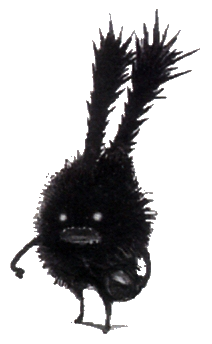
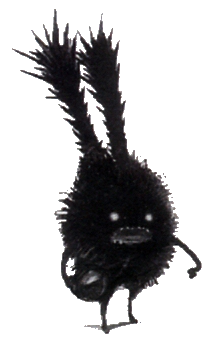
moving spriggan!
code refactor todo :S

Changed region(s): [[0.0283, 0.0291, 0.9623, 0.9884], [0.5094, 0.6105, 0.566, 0.6395], [0.5377, 0.4651, 0.566, 0.4942]]

diff --git a/script.js b/script.js
@@ -1,4 +1,10 @@
 (function() {
+	var SPRIGGAN_CHASE_WIDTH = 160;
+	var SPRIGGAN_CHASE_HEIGHT = 177;
+	var NO_EGGS = 5;
+	var DIRECTION_HORIZONTAL = 0;
+	var DIRECTION_VERTICAL = 1;
+	
 	function isDev() {
 		return window.location.href === "file:///D:/Projets/Pa-Paya/index.html";
 	}
@@ -7,11 +13,82 @@
 	audio.volume = 0.25;
 
 	if (isDev())
-		audio.controls = true;
+		audio.volume = 0.01;
 
 	audio.play();
+
+	var spriggan = document.getElementById("spriggan-chase");	
+	spriggan.addEventListener("transitionend", doSprigganChase);
+	doSprigganChase();
+	
+	function setSprigganPos(sprigganPos, additionalTransform) {
+		spriggan.style.transform = "translate(" + sprigganPos.x + "px, " + sprigganPos.y + "px)" + additionalTransform;
+	}
 	
 	function doSprigganChase() {
+		//Set random egg
+		var egg = document.getElementById("egg");
+		egg.src = "egg/egg-" + Math.ceil(Math.random() * NO_EGGS) + ".png";
 		
+		var durationMS = 3000 + 9000 * Math.random();
+		
+		//Set random pos+Orient by direction
+		var direction = Math.random() > 0.5 ? DIRECTION_HORIZONTAL : DIRECTION_VERTICAL
+		var isInvert = Math.random() > 0.5;
+		
+		var posInitial = {x: 0, y: 0};
+		var posDestination = {x: window.innerWidth, y: window.innerHeight};
+		
+		direction = DIRECTION_VERTICAL;
+		isInvert = true;
+		
+		var additionalTransform = "";
+		if (direction === DIRECTION_HORIZONTAL) {
+			if (!isInvert) {
+				//x: 0->max
+				//y: random->random
+				posInitial.x = 0;
+				posDestination.x = window.innerWidth;
+			} else {
+				//x: max->0
+				//y: random->random
+				posInitial.x = window.innerWidth;
+				posDestination.x = 0;
+				
+				additionalTransform += " scaleX(-1) ";
+			}
+			posInitial.y = Math.random() * window.innerHeight;
+			posDestination.y = Math.random() * window.innerHeight;
+		} else { //direction vertical
+			if (!isInvert) {
+				//x: random->random
+				//y: 0->max
+				posInitial.y = 0;
+				posDestination.y = window.innerHeight;
+			} else {
+				//x: random->random
+				//y: max->0
+				posInitial.y = window.innerHeight;
+				posDestination.y = 0;
+				
+				additionalTransform += " scaleY(-1) ";
+			}
+			posInitial.x = Math.random() * window.innerWidth;
+			posDestination.x = Math.random() * window.innerWidth;
+			
+			additionalTransform += " rotate(90deg) ";
+		}
+		
+		//Do the animation
+		posInitial.x = posInitial.x - SPRIGGAN_CHASE_WIDTH;
+		posInitial.y = posInitial.y - SPRIGGAN_CHASE_HEIGHT;
+		
+		spriggan.style.transition = "none";
+		setSprigganPos(posInitial, additionalTransform);
+		
+		setTimeout(function() {
+			spriggan.style.transition = "transform " + durationMS + "ms linear";
+			setSprigganPos(posDestination, additionalTransform);
+		}, 1);
 	}
 }) ();

diff --git a/theme.css b/theme.css
@@ -1,35 +1,57 @@
+/* background */
 html
 {
+	/* TODO: better bg */
 	background-color: pink;
 }
 
+/* art */
 html, body, .art-container
 {
 	height: 100%;
 	margin: 0;
+	overflow: hidden;
 }
-
 .art-container
 {
 	display: flex;
 	justify-content: center;
 	align-items: center;
 }
-
 .art
 {
-	animation-name: tilt;
 	animation-duration: 2s;
+	opacity: 0.7;
+}
+
+/* spriggan chase */
+#spriggan-chase {
+	position: absolute;
+	top: 0;
+	left: 0;
+}
+#spriggan
+{
+	animation-duration: 0.5s;
+}
+#egg
+{
+	animation-duration: 0.3s;
+}
+
+.art, #spriggan, #egg
+{
+	animation-name: tilt;
 	animation-iteration-count: infinite;
 	animation-direction: alternate;
 	animation-timing-function: linear;
 }
-
 @keyframes tilt {
     from {transform: rotate(-7deg);}
     to {transform: rotate(7deg);}
 }
 
+/* debug */
 #audio
 {
 	position: absolute;

diff --git a/index.html b/index.html
@@ -17,6 +17,11 @@
 		<img src="official-art.png" class="art" width="599" height="312">
 	</div>
 	
+	<div id="spriggan-chase">
+		<img id="spriggan" src="spriggan.png" width="106" height="172">
+		<img id="egg" src="egg/egg-1.png" width="50" height="75">
+	</div>
+	
 	 <script src="script.js"></script> 
 </body>
 </html>
